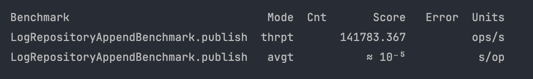
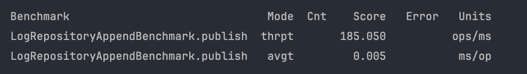
tuning performance

diff --git a/wal-core/src/main/java/gc/garcol/walcore/LogRepository.java b/wal-core/src/main/java/gc/garcol/walcore/LogRepository.java
@@ -18,8 +18,7 @@ import java.util.Optional;
  * @author thaivc
  * @since 2024
  */
-public class LogRepository
-{
+public class LogRepository {
     /**
      * The first segment number.
      */
@@ -38,13 +37,15 @@ public class LogRepository
     FileChannel indexChannel;
     FileChannel logChannel;
 
+    long logOffset;
+    long indexOffset;
+
     /**
      * Constructs a `LogRepository` with the specified base log directory.
      *
      * @param baseLogDir the base directory for log files
      */
-    public LogRepository(String baseLogDir)
-    {
+    public LogRepository(String baseLogDir) {
         LogUtil.createDirectoryNX(baseLogDir);
         this.baseLogDir = baseLogDir;
     }
@@ -59,21 +60,21 @@ public class LogRepository
      * @return the segment number of the latest log file, or 0 if no log files are found
      * @throws IOException if an I/O error occurs while accessing the log directory
      */
-    public long getLatestSegment() throws IOException
-    {
+    public long getLatestSegment() throws IOException {
         Optional<Path> lastFile = Files.list(Paths.get(baseLogDir))
             .filter(Files::isRegularFile)
             .max(Comparator.comparing(Path::getFileName));
         return lastFile.map(path -> LogUtil.segment(path.getFileName().toString())).orElse(-1L);
     }
 
-    private void generateFiles(long segment) throws IOException
-    {
+    private void generateFiles(long segment) throws IOException {
         indexFile = new RandomAccessFile(indexPath(segment), "rw");
         logFile = new RandomAccessFile(logPath(segment), "rw");
         currentIndex = totalRecords(currentSegment);
         indexChannel = indexFile.getChannel();
         logChannel = logFile.getChannel();
+        logOffset = logFile.length();
+        indexOffset = indexFile.length();
     }
 
     /**
@@ -86,11 +87,9 @@ public class LogRepository
      * @throws IOException              if an I/O error occurs during the file operations
      * @throws IllegalArgumentException if the specified segment is older than the current segment
      */
-    public void switchToSegment(long segment) throws IOException
-    {
+    public void switchToSegment(long segment) throws IOException {
         long latestSegment = getLatestSegment();
-        if (segment < latestSegment)
-        {
+        if (segment < latestSegment) {
             throw new IllegalArgumentException("Cannot switch to an older segment");
         }
         currentSegment = segment;
@@ -106,8 +105,7 @@ public class LogRepository
      * @param readerBuffer the buffer to read the log entry into
      * @throws IOException if an I/O error occurs
      */
-    public void read(long segment, long index, ByteBuffer readerBuffer) throws IOException
-    {
+    public void read(long segment, long index, ByteBuffer readerBuffer) throws IOException {
         RandomAccessFile indexFileRead = indexFile != null && segment == currentSegment ? indexFile : new RandomAccessFile(indexPath(segment), "r");
         RandomAccessFile logFileRead = logFile != null && segment == currentSegment ? logFile : new RandomAccessFile(logPath(segment), "r");
 
@@ -134,17 +132,16 @@ public class LogRepository
      * @param logs the buffer containing the log entries to append
      * @throws IOException if an I/O error occurs during the write operation
      */
-    public void append(ByteBuffer logs) throws IOException
-    {
+    public void append(ByteBuffer logs) throws IOException {
         indexBufferWriter.clear();
         indexBufferWriter.putLong(logFile.length());
         indexBufferWriter.putInt(logs.limit());
         indexBufferWriter.flip();
 
-        var logOffset = logFile.length();
-        var indexOffset = indexFile.length();
         logChannel.write(logs, logOffset);
         indexChannel.write(indexBufferWriter, indexOffset);
+        logOffset += logs.limit();
+        indexOffset += LogIndex.SIZE;
         currentIndex++;
     }
 
@@ -157,19 +154,16 @@ public class LogRepository
      * @param fromIndex the index from which to truncate
      * @throws IOException if an I/O error occurs
      */
-    public void truncate(long segment, long fromIndex) throws IOException
-    {
+    public void truncate(long segment, long fromIndex) throws IOException {
         File indexFileSys = new File(indexPath(segment));
-        if (!indexFileSys.exists())
-        {
+        if (!indexFileSys.exists()) {
             return;
         }
 
         try (
             RandomAccessFile indexFile = new RandomAccessFile(indexPath(segment), "rw");
             RandomAccessFile logFile = new RandomAccessFile(logPath(segment), "rw")
-        )
-        {
+        ) {
             indexBufferReader.clear();
             var indexChannel = indexFile.getChannel();
             indexChannel.read(indexBufferReader, fromIndex * LogIndex.SIZE);
@@ -187,19 +181,16 @@ public class LogRepository
      * @return the total number of records
      * @throws IOException if an I/O error occurs
      */
-    public long totalRecords(long segment) throws IOException
-    {
+    public long totalRecords(long segment) throws IOException {
         RandomAccessFile indexFileRead = segment == currentSegment ? indexFile : new RandomAccessFile(indexPath(segment), "r");
         return indexFileRead.length() / LogIndex.SIZE;
     }
 
-    private String indexPath(long segment)
-    {
+    private String indexPath(long segment) {
         return baseLogDir + "/" + LogUtil.indexName(segment);
     }
 
-    private String logPath(long segment)
-    {
+    private String logPath(long segment) {
         return baseLogDir + "/" + LogUtil.logName(segment);
     }
 }

diff --git a/wal-benchmark/src/main/java/gc/garcol/libbenchmark/LogRepositoryAppendBenchmark.java b/wal-benchmark/src/main/java/gc/garcol/libbenchmark/LogRepositoryAppendBenchmark.java
@@ -12,7 +12,7 @@ import java.util.concurrent.TimeUnit;
  */
 @State(Scope.Thread)
 @BenchmarkMode({ Mode.Throughput, Mode.AverageTime })
-@OutputTimeUnit(TimeUnit.SECONDS)
+@OutputTimeUnit(TimeUnit.MILLISECONDS)
 @Fork(1)
 public class LogRepositoryAppendBenchmark
 {

diff --git a/readme.md b/readme.md
@@ -1,10 +1,12 @@
 # Cafe WAL
 
+Append over 180,000 records per second.
+
 [![Maven Central Version](https://img.shields.io/maven-central/v/io.github.gc-garcol/cafe-wal?logo=sonatype&logoColor=red&style=flat&label=Maven%20Central)](https://central.sonatype.com/artifact/io.github.gc-garcol/cafe-wal?)
 [![javadoc](https://javadoc.io/badge2/io.github.gc-garcol/cafe-wal/javadoc.svg?)](https://javadoc.io/doc/io.github.gc-garcol/cafe-wal?)
 
 ## Benchmark
 
-140k records per second (not batching)
+180k records per second (not batching)
 
 ![benchmark.png](benchmark.png)
